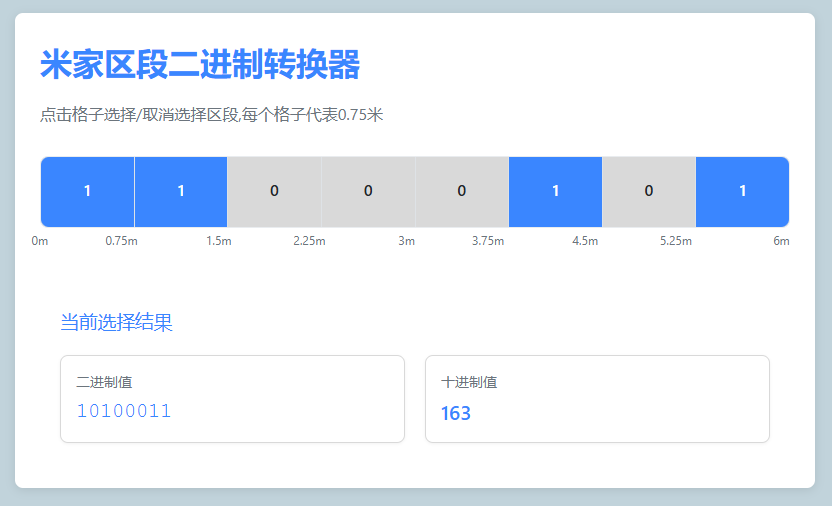
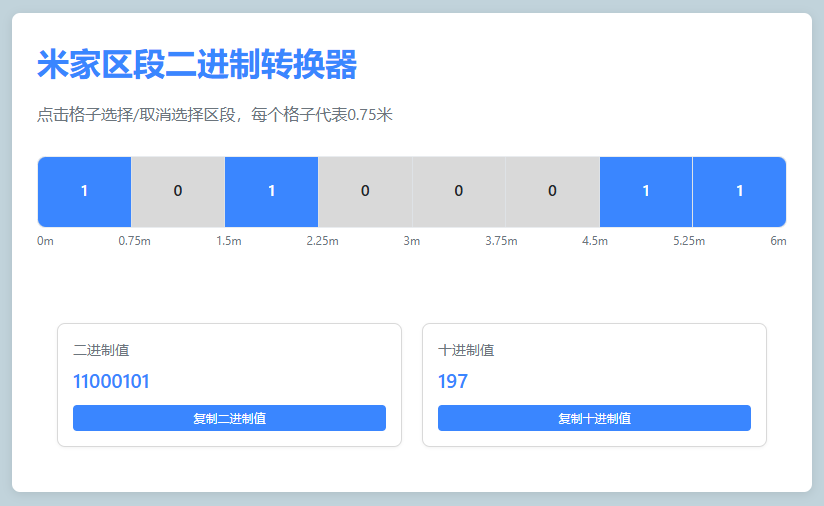
update README.md and images
1. 添加关于领普ES3的相关描述到README.md
2. 添加和更新部分图片

diff --git a/README.md b/README.md
@@ -12,3 +12,17 @@ demo地址: [在线预览](https://mihome-zone-binary-converter.netlify.app)
 ![1](https://github.com/jacksen168sub/MiHome_zone_binary_converter/blob/main/images/1.png)
 
 ![2](https://github.com/jacksen168sub/MiHome_zone_binary_converter/blob/main/images/2.png)
+
+
+## 目前已发现采用2进制的米家设备:
+1. 领普人体存在传感器ES3
+
+
+### 关于领普人体传感器ES3的发现:
+在米家APP内设置了 ```自定义近距区间``` 会控制在米家自动化极客版内的查询结果:
+![3](https://github.com/jacksen168sub/MiHome_zone_binary_converter/blob/main/images/3.png)
+如图设置了 ```2.25米内``` 换算成10进制值就是: **1-7**
+![4](https://github.com/jacksen168sub/MiHome_zone_binary_converter/blob/main/images/4.png)
+![5](https://github.com/jacksen168sub/MiHome_zone_binary_converter/blob/main/images/5.png)
+那么在米家自动化极客版内查询的值就会被控制在**7**之内,不会超过**7**
+假设传感器显示8个格子能量值全满了(11111111 = 255),那么在米家自动化极客版内的查询结果就会是**7**,而不会是**8-255**
